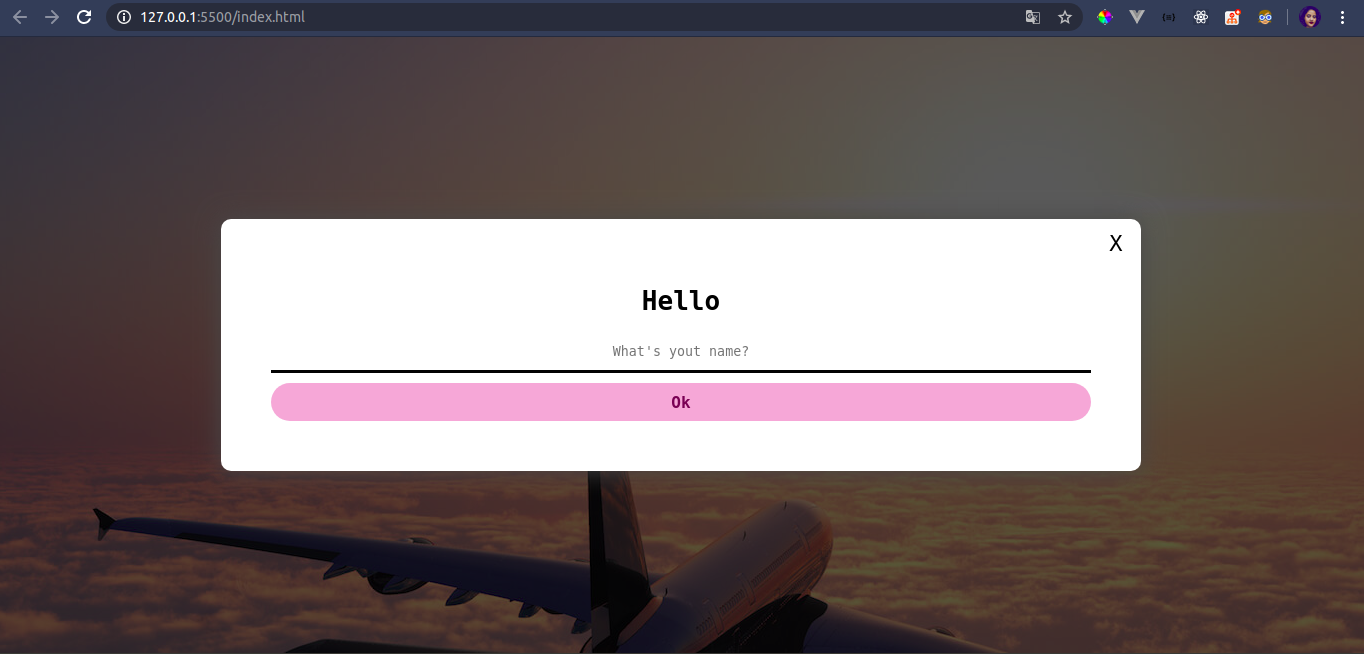
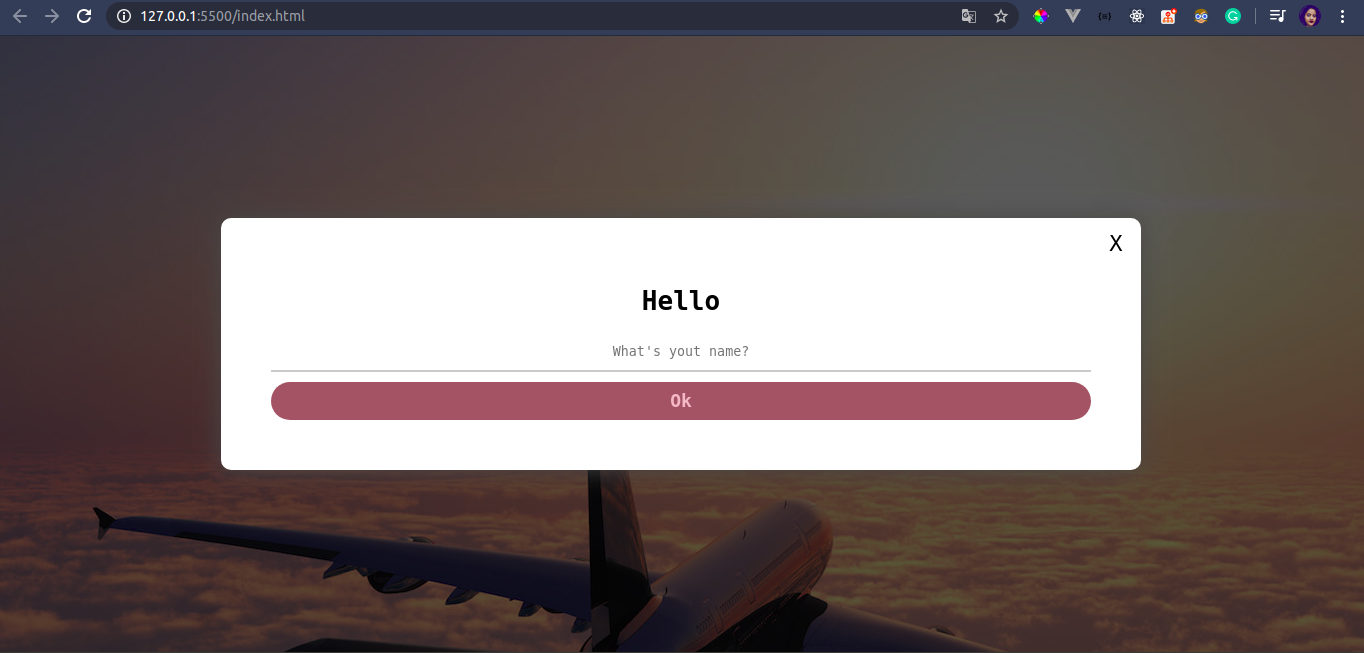
.

Changed region(s): [[0.1848, 0.5207, 0.8006, 0.6432], [0.0616, 0.0, 0.9853, 0.0613]]

diff --git a/index.html b/index.html
@@ -11,7 +11,7 @@
         font-family: monospace;
       }
       body {
-        background-color: #cf8154;
+        background-color: #f9a66c;
         background-image: url(sky.jpg);
       }
       .modal-container {
@@ -102,9 +102,9 @@
         font-size: 24px;
       }
       .button-personalized {
-        background-color: #f1b6d9;
-        color: #752456;
-        font-size: 16px;
+        background-color: #a05d68;
+        color: #f3bec7;
+        font-size: 18px;
         font-weight: bold;
         border-radius: 50px;
       }
@@ -118,7 +118,7 @@
         align-items: center;
         min-width: 600px;
         padding: 20px;
-        background-color: #f1b6d960;
+        background-color: #a05d6855;
         border-radius: 20px;
         top: 200px;
         left: 350px;
@@ -132,7 +132,7 @@
         background-size: cover; */
       }
       .title {
-        color: #752456;
+        color: #a05d68;
         z-index: 1;
       }
       .title::after {
